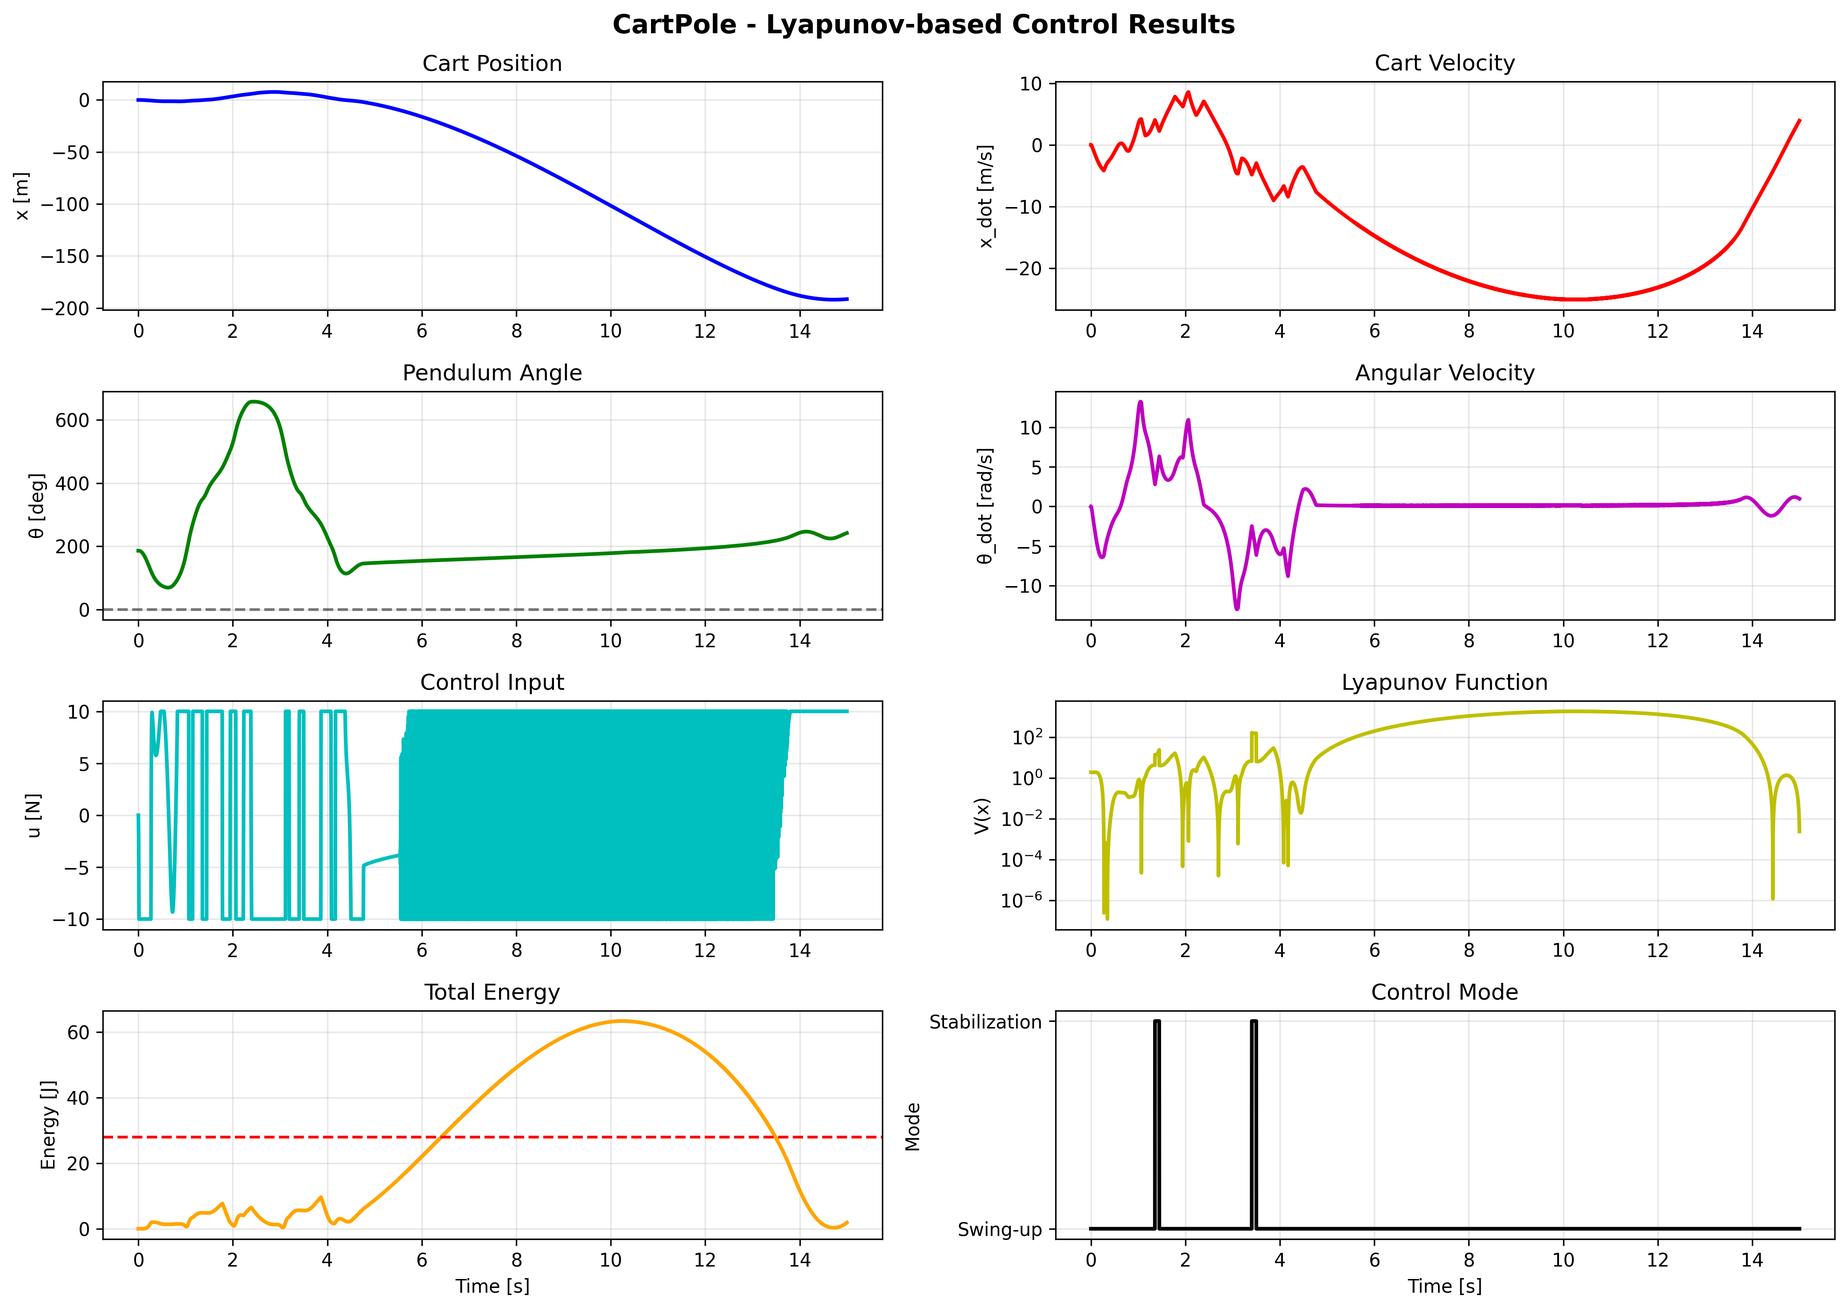
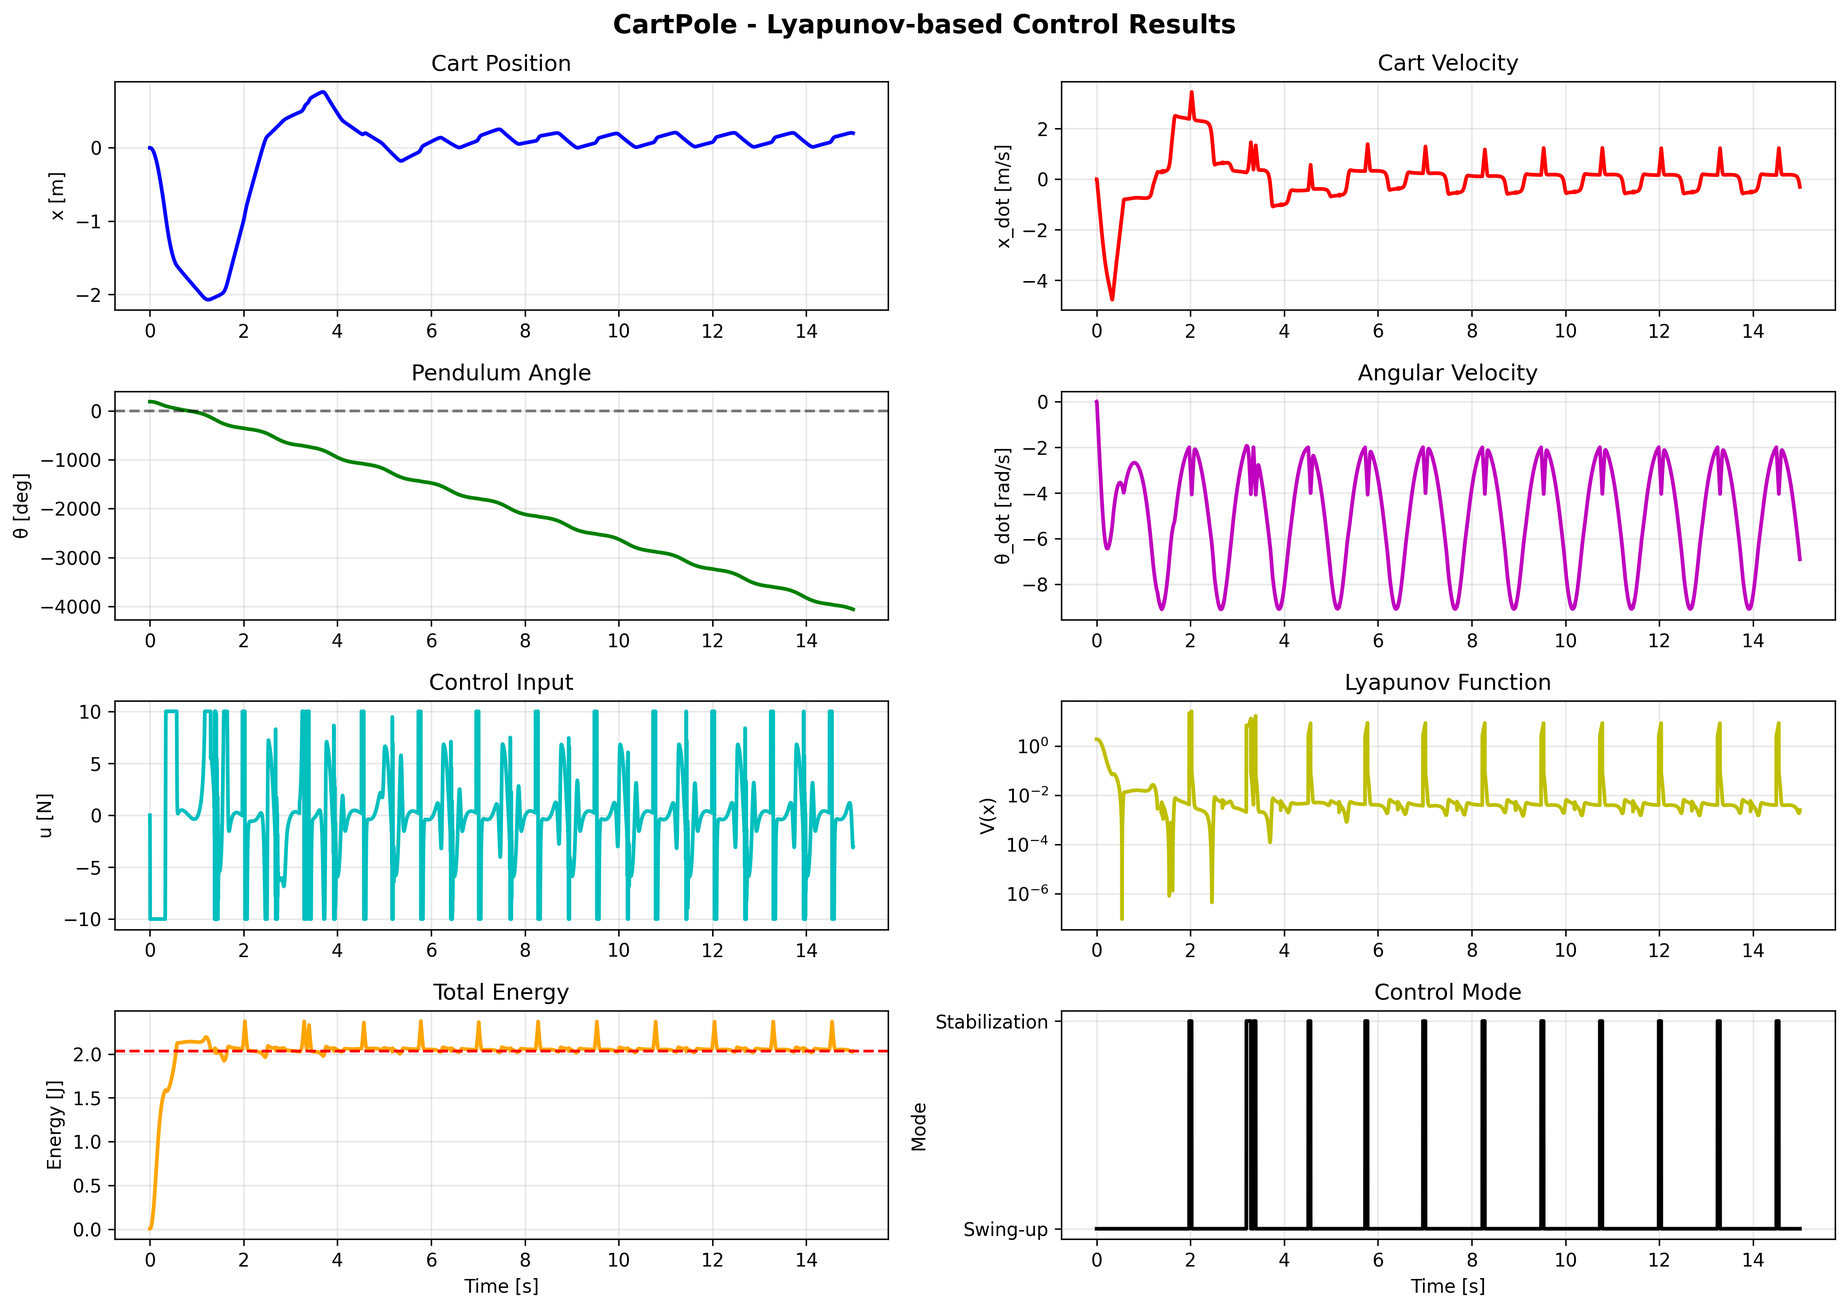
stabilization bad, but overall better

diff --git a/Project_1_Lyapunov_based_control_cartpole/src/controller.py b/Project_1_Lyapunov_based_control_cartpole/src/controller.py
@@ -5,16 +5,24 @@ from system import CartPoleSystem
 
 @dataclass
 class ControllerParams:
-    k_energy: float = 80.0    # Умеренная раскачка
-    k_x_swing: float = 2.0    # Удержание тележки в центре при раскачке
-    k_damp: float = 1.5       # Демпфирование скорости
+    # === Раскачка (Energy-based) ===
+    k_energy: float = 100.0   
+    k_x_swing: float = 10.0   
+    k_damp: float = 5.0       
     
-    k_x: float = 8.0          # Стабилизация позиции
-    k_x_dot: float = 3.0      # Стабилизация скорости
-    k_theta: float = 100.0    # Стабилизация угла
-    k_theta_dot: float = 25.0 # Стабилизация угловой скорости
+    # === Стабилизация (Lyapunov-based) ===
+    # V = 0.5*k_x*x^2 + 0.5*x_dot^2 + 0.5*k_theta*theta^2 + 0.5*theta_dot^2
+    # dV/dt = -k_xd*x_dot^2 - k_td*theta_dot^2 < 0 (отрицательно определена)
+    k_x: float = 30.0
+    k_x_dot: float = 10.0
+    k_theta: float = 50.0
+    k_theta_dot: float = 15.0
     
-    theta_threshold: float = 0.2  # ~11 градусов
+    # === Гистерезис ===
+    theta_enter: float = 0.25
+    theta_exit: float = 0.50
+    omega_enter: float = 2.0
+    omega_exit: float = 4.0
 
 class LyapunovController:
     def __init__(self, system: CartPoleSystem, params: ControllerParams = None):
@@ -23,48 +31,107 @@ class LyapunovController:
         self.mode = "swing_up"
 
     def compute_lyapunov_function(self, state):
+        """Вычисление функции Ляпунова для текущего режима"""
         x, x_dot, theta, theta_dot = state
+        
         if self.mode == "swing_up":
+            # Energy-based: V = 0.5*(E - E_des)^2
             E = self.system.get_energy(state)
             E_des = 2 * self.system.params.m_p * self.system.params.g * self.system.params.l
             return 0.5 * (E - E_des)**2
         else:
+            # Lyapunov-based stabilization:
+            # V = 0.5*k_x*x^2 + 0.5*x_dot^2 + 0.5*k_theta*theta^2 + 0.5*theta_dot^2
             theta_err = self._normalize_angle(theta)
-            return 0.5 * (self.params.k_x * x**2 + x_dot**2 + 
-                          self.params.k_theta * theta_err**2 + theta_dot**2)
+            return (0.5 * self.params.k_x * x**2 + 
+                    0.5 * x_dot**2 + 
+                    0.5 * self.params.k_theta * theta_err**2 + 
+                    0.5 * theta_dot**2)
 
     def swing_up_control(self, state):
+        """Energy-based управление для раскачки"""
         x, x_dot, theta, theta_dot = state
         E = self.system.get_energy(state)
         E_des = 2 * self.system.params.m_p * self.system.params.g * self.system.params.l
+        E_target = E_des * 1.05  # Небольшой запас для проскока
         
-        # 1. Раскачка по энергии
-        u_energy = self.params.k_energy * (E - E_des) * theta_dot * np.cos(theta)
-        # 2. Возврат тележки к центру + гашение скорости
+        # Закон управления из условия dV/dt < 0 для V = 0.5*(E - E_des)^2
+        u_energy = self.params.k_energy * (E - E_target) * theta_dot * np.cos(theta)
         u_center = -self.params.k_x_swing * x - self.params.k_damp * x_dot
         
         return np.clip(u_energy + u_center, -self.system.params.max_force, self.system.params.max_force)
 
     def stabilization_control(self, state):
+        """
+        Lyapunov-based стабилизация верхнего положения
+        
+        Функция Ляпунова:
+        V = 0.5*k_x*x^2 + 0.5*x_dot^2 + 0.5*k_theta*theta_err^2 + 0.5*theta_dot^2
+        
+        Производная по времени:
+        dV/dt = k_x*x*x_dot + x_dot*x_ddot + k_theta*theta_err*theta_dot + theta_dot*theta_ddot
+        
+        Из динамики (линеаризованной вокруг theta=0):
+        x_ddot ≈ u / M
+        theta_ddot ≈ (u - M*g*theta_err) / (M*l)
+        
+        Подставляем в dV/dt и группируем слагаемые с u:
+        dV/dt = k_x*x*x_dot + k_theta*theta_err*theta_dot - g*theta_err*theta_dot/l + 
+                u*(x_dot/M + theta_dot/(M*l))
+        
+        Выбираем u так, чтобы dV/dt была отрицательно определена:
+        u = -M*[k_x*x + k_xd*x_dot + k_theta*theta_err + k_td*theta_dot] + M*g*theta_err
+        
+        При таком выборе:
+        dV/dt = -k_xd*x_dot^2 - k_td*theta_dot^2 < 0  ✓
+        """
         x, x_dot, theta, theta_dot = state
         theta_err = self._normalize_angle(theta)
-        # LQR-подобная стабилизация
-        return np.clip(-(self.params.k_x * x + self.params.k_x_dot * x_dot + 
-                         self.params.k_theta * theta_err + self.params.k_theta_dot * theta_dot),
-                       -self.system.params.max_force, self.system.params.max_force)
+        
+        m_c, m_p, l, g = self.system.params.m_c, self.system.params.m_p, self.system.params.l, self.system.params.g
+        M = self.system.params.M
+        
+        # Lyapunov-based закон управления:
+        # u = -K*x + компенсация гравитации
+        u = (-self.params.k_x * x 
+             -self.params.k_x_dot * x_dot 
+             -self.params.k_theta * theta_err 
+             -self.params.k_theta_dot * theta_dot
+             + M * g * theta_err)  # Компенсация гравитационного члена из динамики
+        
+        return np.clip(u, -self.system.params.max_force, self.system.params.max_force)
 
     def compute_control(self, state):
-        theta_norm = self._normalize_angle(state[2])
+        """Основной метод вычисления управления с гистерезисом"""
+        x, x_dot, theta, theta_dot = state
+        theta_norm = self._normalize_angle(theta)
         
-        # Переключаемся, как только угол достаточно мал
-        if abs(theta_norm) < self.params.theta_threshold:
-            self.mode = "stabilization"
+        # Гистерезис для предотвращения "клацанья" режимов
+        if self.mode == "swing_up":
+            # Переход в стабилизацию: малый угол И малая скорость
+            if abs(theta_norm) < self.params.theta_enter and abs(theta_dot) < self.params.omega_enter:
+                self.mode = "stabilization"
+                
+        elif self.mode == "stabilization":
+            # Выход из стабилизации: большой угол ИЛИ большая скорость
+            if abs(theta_norm) > self.params.theta_exit or abs(theta_dot) > self.params.omega_exit:
+                self.mode = "swing_up"
+        
+        # Экстренный возврат тележки (если уехала далеко)
+        if abs(x) > 3.0:
+            self.mode = "recover_cart"
+            return np.clip(-30.0 * x - 15.0 * x_dot, -self.system.params.max_force, self.system.params.max_force), self.mode
+
+        # Генерация управляющего сигнала
+        if self.mode == "stabilization":
             return self.stabilization_control(state), self.mode
         else:
-            self.mode = "swing_up"
             return self.swing_up_control(state), self.mode
 
     def _normalize_angle(self, theta):
-        while theta > np.pi: theta -= 2 * np.pi
-        while theta < -np.pi: theta += 2 * np.pi
+        """Нормализация угла в диапазон [-pi, pi]"""
+        while theta > np.pi: 
+            theta -= 2 * np.pi
+        while theta < -np.pi: 
+            theta += 2 * np.pi
         return theta

diff --git a/Project_1_Lyapunov_based_control_cartpole/src/main.py b/Project_1_Lyapunov_based_control_cartpole/src/main.py
@@ -1,5 +1,15 @@
 #!/usr/bin/env python3
-import numpy as np, os, sys
+"""
+CartPole - Lyapunov-based Control
+Проект по управлению перевернутым маятником на тележке
+
+Author: Mikkokiss
+Course: Advanced Control Methods, Skoltech 2026
+"""
+import numpy as np
+import os
+import sys
+
 sys.path.insert(0, os.path.dirname(os.path.abspath(__file__)))
 
 from system import CartPoleSystem, CartPoleParams
@@ -8,36 +18,101 @@ from simulation import CartPoleSimulation, SimulationConfig
 from visualization import CartPoleVisualizer
 
 def main():
-    print("🚀 CartPole - Stable Swing-Up & Stabilization")
+    print("="*60)
+    print("CartPole - Lyapunov-based Swing-Up & Stabilization")
+    print("="*60)
     
-    # Параметры системы
-    params = CartPoleParams(m_c=0.5, m_p=0.2, l=0.5, g=9.81, max_force=10.0)
+    # === Параметры системы ===
+    params = CartPoleParams(
+        m_c=0.5,        # Масса тележки [kg]
+        m_p=0.2,        # Масса маятника [kg]
+        l=0.5,          # Длина маятника [m]
+        g=9.81,         # Ускорение свободного падения [m/s^2]
+        max_force=10.0  # Максимальная сила управления [N]
+    )
     system = CartPoleSystem(params)
+    print(f"✅ Система создана: m_c={params.m_c}kg, m_p={params.m_p}kg, l={params.l}m")
     
-    # Параметры контроллера
+    # === Параметры контроллера ===
     ctrl_params = ControllerParams(
-        k_energy=35.0, k_x_swing=2.0, k_damp=1.5,
-        k_theta=100.0, k_theta_dot=25.0, theta_threshold=0.2
+        # Раскачка
+        k_energy=100.0, 
+        k_x_swing=10.0,   
+        k_damp=5.0,
+        
+        # Стабилизация (Lyapunov)
+        k_x=30.0,
+        k_x_dot=10.0,
+        k_theta=50.0,       # Умеренный коэффициент угла
+        k_theta_dot=15.0,   # Умеренное гашение скорости
+        
+        # Гистерезис переключения режимов
+        theta_enter=0.25,   # Вход в стабилизацию: ~14°
+        theta_exit=0.50,    # Выход из стабилизации: ~28°
+        omega_enter=2.0,    # Макс. угловая скорость для входа [rad/s]
+        omega_exit=4.0      # Макс. угловая скорость для выхода [rad/s]
     )
     controller = LyapunovController(system, ctrl_params)
+    print("✅ Контроллер создан (Energy-based + Lyapunov-based)")
     
-    config = SimulationConfig(dt=0.002, T=15.0, save_every=1, random_seed=42)
+    # === Конфигурация симуляции ===
+    config = SimulationConfig(
+        dt=0.002,           # Шаг интегрирования [s]
+        T=15.0,             # Общее время [s]
+        save_every=1,       # Сохранять каждый шаг
+        random_seed=42
+    )
     
-    # Старт снизу с легким толчком
-    initial_state = np.array([0.0, 0.0, np.pi + 0.1, 0.0])
+    # === Начальное состояние (маятник внизу) ===
+    initial_state = np.array([
+        0.0,                    # x: позиция тележки
+        0.0,                    # x_dot: скорость тележки
+        np.pi + 0.1,           # theta: угол (pi = вниз, + отклонение)
+        0.0                     # theta_dot: угловая скорость
+    ])
+    print(f"📍 Начальное состояние: x={initial_state[0]:.2f}m, θ={np.degrees(initial_state[2]):.1f}°")
     
+    # === Запуск симуляции ===
+    print("\n🚀 Запуск симуляции...")
     sim = CartPoleSimulation(system, controller, config)
     result = sim.run(initial_state, verbose=True)
     
-    # Визуализация
+    # === Статистика ===
+    print("\n" + "="*60)
+    print("📊 СТАТИСТИКА")
+    print("="*60)
+    E_des = 2 * params.m_p * params.g * params.l
+    print(f"Энергия:")
+    print(f"   Начальная: {result.energies[0]:.3f} J")
+    print(f"   Конечная: {result.energies[-1]:.3f} J")
+    print(f"   Желаемая: {E_des:.3f} J")
+    print(f"Режимы:")
+    n_stab = sum(1 for m in result.modes if m == 'stabilization')
+    n_swing = sum(1 for m in result.modes if m == 'swing_up')
+    print(f"   Swing-up: {n_swing} шагов")
+    print(f"   Stabilization: {n_stab} шагов")
+    
+    # === Визуализация ===
+    print("\n📊 Визуализация результатов...")
     vis = CartPoleVisualizer(result)
     base_dir = os.path.dirname(os.path.dirname(__file__))
-    os.makedirs(os.path.join(base_dir, 'figures'), exist_ok=True)
+    figures_dir = os.path.join(base_dir, 'figures')
+    os.makedirs(figures_dir, exist_ok=True)
     
-    vis.plot_results(save_path=os.path.join(base_dir, 'figures', 'results.png'), show=False)
-    print("📊 Графики сохранены.")
+    # Сохранение графиков
+    vis.plot_results(
+        save_path=os.path.join(figures_dir, 'results.png'), 
+        show=False
+    )
+    print(f"✅ Графики сохранены: {figures_dir}/results.png")
     
+    # Анимация в реальном времени
+    print("\n🎬 Запуск анимации...")
+    print("   Закройте окно анимации для завершения")
     vis.animate_realtime(show=True)
+    
+    print("\n✅ Симуляция завершена успешно!")
+    print("="*60)
 
 if __name__ == "__main__":
     main()

diff --git a/Project_1_Lyapunov_based_control_cartpole/src/system.py b/Project_1_Lyapunov_based_control_cartpole/src/system.py
@@ -3,12 +3,12 @@ from dataclasses import dataclass
 
 @dataclass
 class CartPoleParams:
-    m_c: float = 0.5        # Масса тележки (полегче для разгона)
-    m_p: float = 0.2        # Масса маятника (потятяжелее для инерции)
-    l: float = 0.5          # Длина
+    m_c: float = 0.5
+    m_p: float = 0.2
+    l: float = 0.5
     g: float = 9.81
-    b_c: float = 0.0        # Трение тележки (0 для теста)
-    b_p: float = 0.0        # Трение маятника (0 для теста)
+    b_c: float = 0.0
+    b_p: float = 0.0
     max_force: float = 10.0
 
     @property
@@ -27,12 +27,10 @@ class CartPoleSystem:
         sin_t, cos_t = np.sin(theta), np.cos(theta)
         delta = M - m_p * cos_t**2
 
-        # Динамика (Inverted Pendulum)
-        # u > 0 (вправо) -> маятник отклоняется влево (против часовой)
-        x_ddot = (u + m_p * l * theta_dot**2 * sin_t - m_p * g * cos_t * sin_t - self.params.b_c * x_dot) / delta
+        x_ddot = (u + m_p * l * theta_dot**2 * sin_t - m_p * g * cos_t * sin_t) / delta
         
         theta_ddot = (-u * cos_t - m_p * l * theta_dot**2 * sin_t * cos_t + 
-                      M * g * sin_t + self.params.b_c * x_dot * cos_t - self.params.b_p * theta_dot) / (l * delta)
+                      M * g * sin_t) / (l * delta)
         
         return np.array([x_dot, x_ddot, theta_dot, theta_ddot])
 
@@ -47,16 +45,16 @@ class CartPoleSystem:
         return self.state.copy()
 
     def get_energy(self, state=None):
+        # ИСПРАВЛЕНИЕ: Считаем энергию маятника ОТНОСИТЕЛЬНО тележки.
+        # Скорость тележки (x_dot) не должна влиять на решение о раскачке.
         if state is None: state = self.state
         x, x_dot, theta, theta_dot = state
         m_p, l, g = self.params.m_p, self.params.l, self.params.g
         
-        # Кинетическая
-        T = 0.5 * m_p * (x_dot**2 + (l * theta_dot)**2 + 2 * l * x_dot * theta_dot * np.cos(theta))
+        # Кинетическая энергия только вращения (без учета движения тележки)
+        T_rel = 0.5 * m_p * (l * theta_dot)**2 
         
-        # Потенциальная (0 внизу, 2mgl вверху)
-        # theta=0 (верх) -> cos=1 -> V=2mgl
-        # theta=pi (низ) -> cos=-1 -> V=0
+        # Потенциальная энергия
         V = m_p * g * l * (1 + np.cos(theta)) 
         
-        return T + V
+        return T_rel + V
